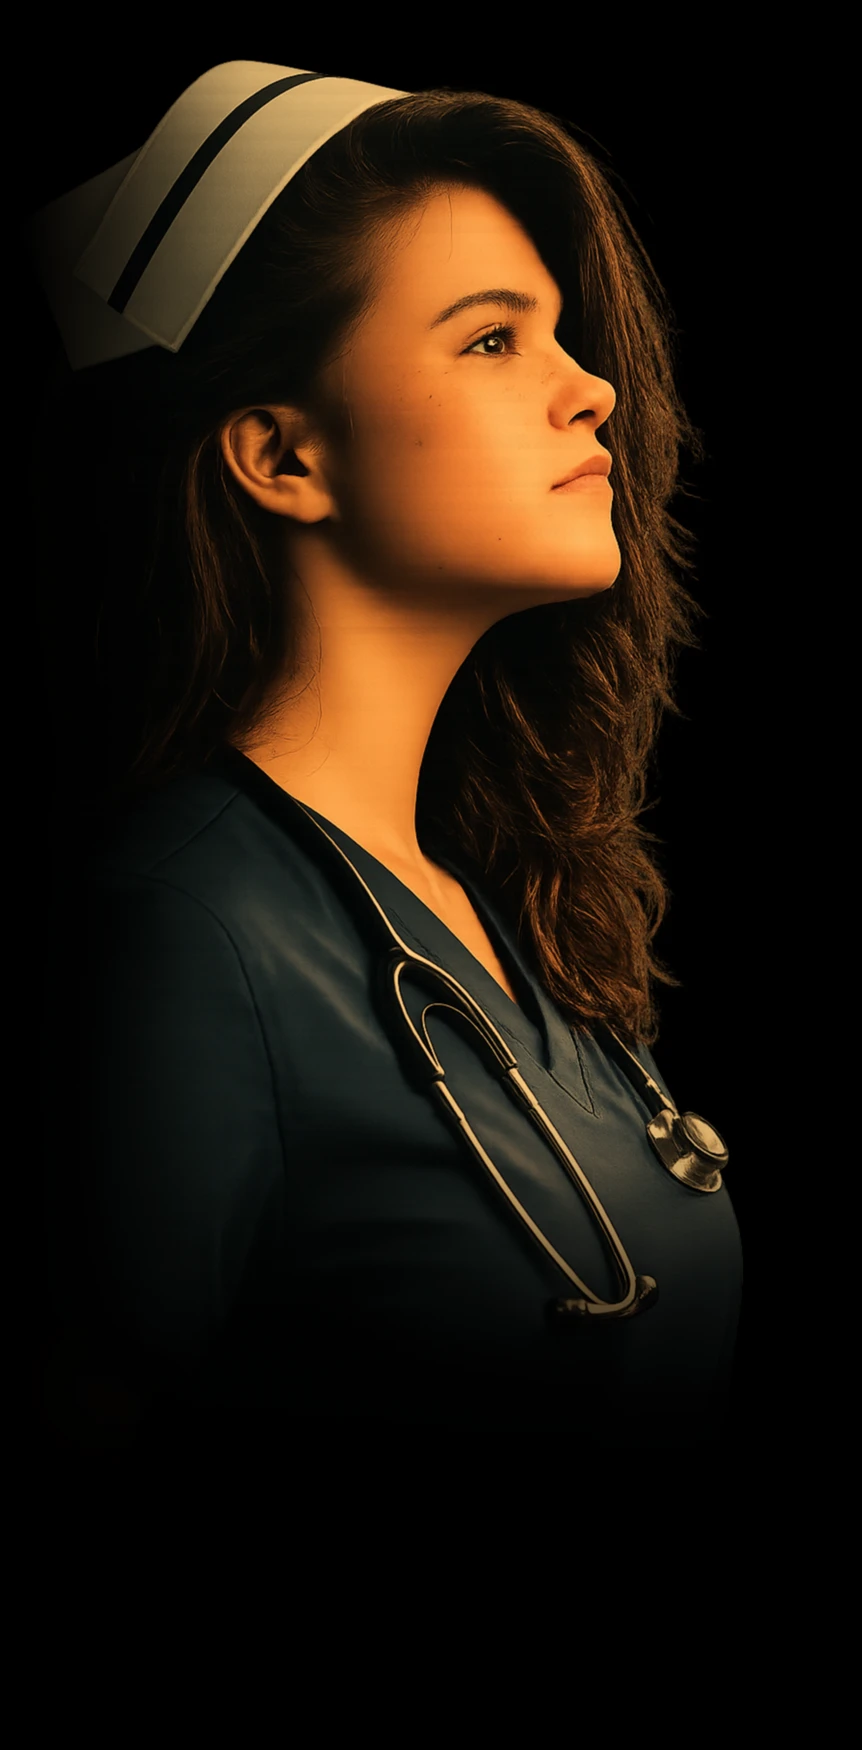
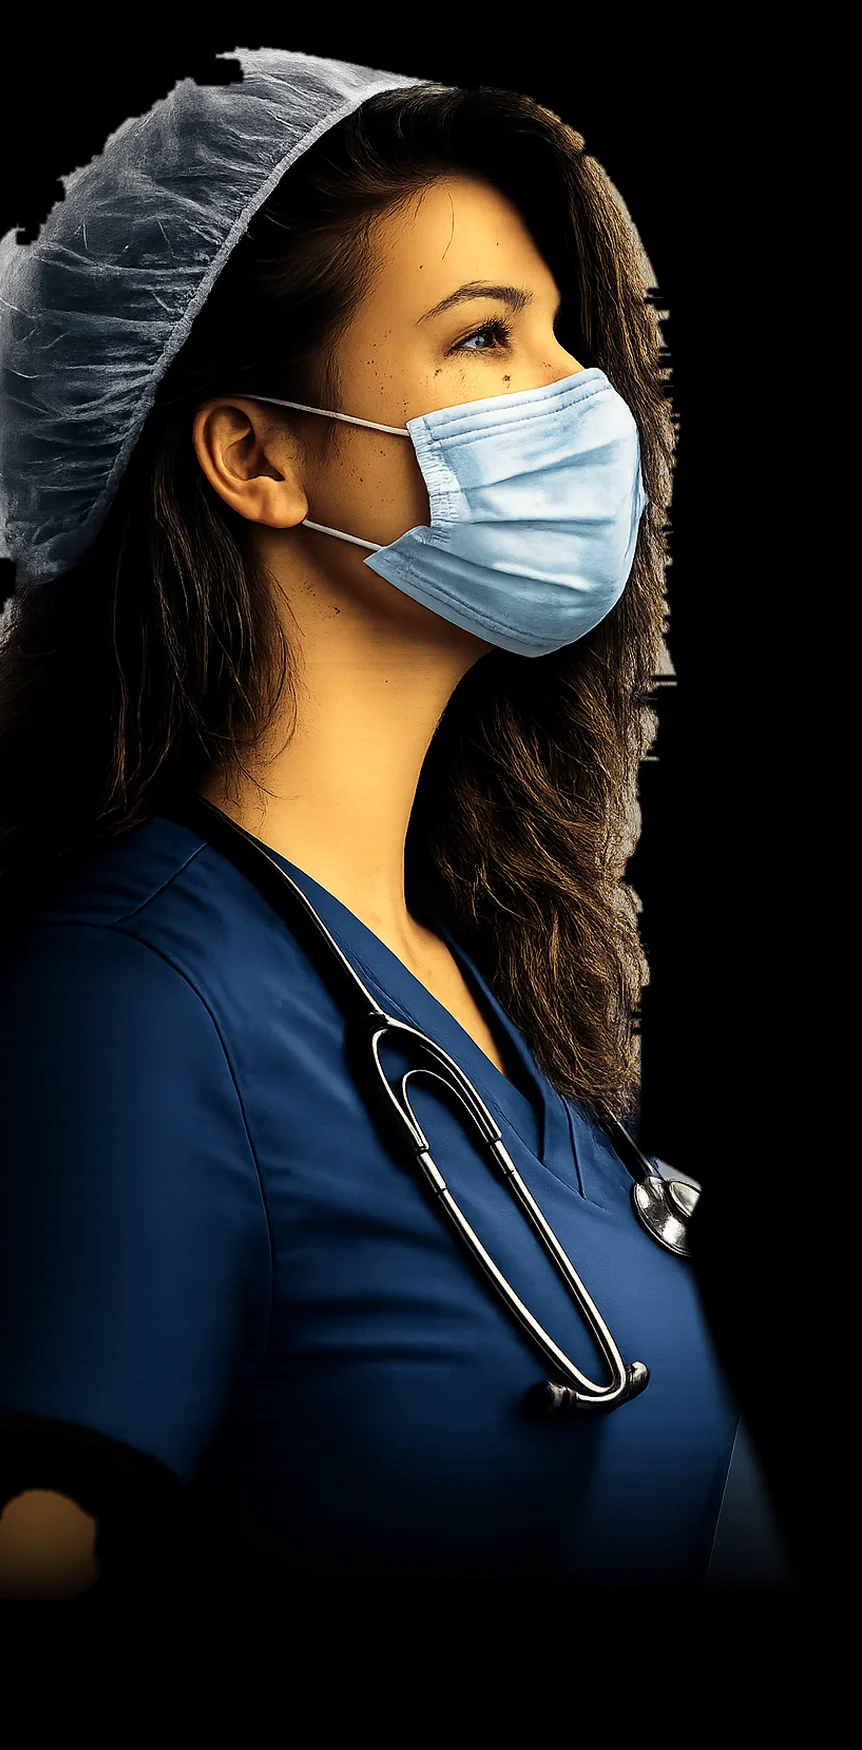
hero: a new nurse frame, cut inside its own fringe
Replaces the morph's second frame with the clinician the client supplied:
masked, capped, in scrubs, on a lit studio grey. The mask is what makes a
different person workable — with the nose and mouth covered there is much
less identity to cross-fade, and what carries the morph is the head angle,
the jaw and the eye.

The plate was the whole problem. The key light throws a rim onto the
backdrop that exists only next to her, 50 to 90 levels above what any
smooth model of the plate predicts, because a smooth model is fitted from
the corners. Three approaches died on it:

  - a degree-3 polynomial fit: reads the entire rim as subject
  - a diffusion inpaint of the plate: follows the clouds beautifully and
    still cannot invent a rim that is only ever underneath her
  - true coverage, a = (B - I)/(B - F_dark): a real estimate rather than a
    difference test, fixed the hair, could not fix a plate error

What shipped instead is to stop trying to recover the fringe and cut
inside it. The silhouette is reliable; only its last few pixels are not.
Feathering INWARD discards every partially covered pixel rather than
guessing at it, so the matte reaches zero while it is still over hair.
Under a screen blend that trade is not close: a halo has nowhere to hide,
and the frame this dissolves with loses its own hair to black anyway.

Three things it still needed. A scanline trim, walking in from the right
of each row while the pixels are plate-bright, since her side of that edge
[…]

diff --git a/docs/HACKATHON-H0-submission.md b/docs/HACKATHON-H0-submission.md
@@ -1,0 +1,92 @@
+# H0: Hack the Zero Stack — Solace submission package
+
+## ⏳ LIVE DRAFT STATUS (Devpost submission #1066936)
+Draft is created and these fields are FILLED in the form (do not reload the open tab or they may be lost before you save):
+- **Project name:** Solace — AI-native ED intake & triage
+- **Elevator pitch / Story / Built-with tags (18) / Demo URL / Video link:** ✅ done
+- **Track:** Monetizable B2B app ✅
+- **Published Vercel link:** https://solaceaidemo.vercel.app/showcase ✅
+- **Database:** Amazon DynamoDB ✅
+
+### ❗ Remaining — only YOU can do these (then Save & continue → Submit):
+1. **Submitter Type** — Individual or Team (Solace is a team project → likely "Team"; you'd be the Representative)
+2. **Country of Residence** — your country (personal; check excluded-countries list in rules)
+3. **App Status** — "New" if Solace was first built within May 27–Jun 29, 2026; else "Existing" + one line on what you updated
+4. **Vercel Team ID** — vercel.com → the team hosting the live site (inkspire) → Settings → General → "Team ID" (team_xxxx)
+5. **Architecture diagram** (file upload, required) — I can generate a PNG for you
+6. **AWS DB screenshot** (file upload, required) — screenshot your AWS Console → DynamoDB → Tables list showing the `solace-*` tables
+7. **Final Submit** — this is YOUR click (submitting = agreeing to the Official Rules as a binding contract)
+
+Deadline: **June 29, 2026, 5:00 pm PT.**
+
+---
+
+
+**Deadline:** June 29, 2026, 5:00 pm Pacific (≈1 day out). Submit a *draft* early, keep editing until the deadline.
+
+**Track:** **Track 2 — Monetizable B2B App** (healthcare is named explicitly in the track).
+You are also automatically eligible for the four Best-of prizes (Best Technical Implementation, Best Design, **Most Impactful**, Most Original) — Most Impactful is very winnable for an ED-triage product.
+
+**Database used:** **Amazon DynamoDB** (one of the three required AWS Databases). ✅
+**Frontend deployment:** **Vercel** (patient intake SPA + clinician terminal + marketing site). ✅
+
+---
+
+## Why this is a real fit (not a stretch)
+- Required stack = (Aurora **or** Aurora DSQL **or** DynamoDB) + (Vercel **or** v0). Solace = **DynamoDB + Vercel**. Met.
+- Rules updated 6/10 to be "more inclusive if you don't use the new integration" — you only need a **screenshot proving AWS DB usage**. So Vite+React on Vercel + DynamoDB via the FastAPI/Lambda backend qualifies.
+- Built within the submission window (May 27–June 29, 2026), so "New & Existing" is satisfied.
+
+**Honesty guardrail:** Do **not** claim you used v0 to scaffold it (you used Vite/React). Lead with the **DynamoDB data model** and the **Vercel-hosted frontends** — both true and both strong.
+
+---
+
+## The DynamoDB story (this is the linchpin — criterion #1)
+Solace runs entirely on a **multi-table DynamoDB design**, on-demand (PAY_PER_REQUEST), every table CMK-encrypted, TTL on transient tables. Real, deliberate modeling:
+
+| Domain | Tables |
+|---|---|
+| Patient + clinical | `solace-patients`, `solace-ehr-patients`, `solace-clinicians`, `solace-hospitals`, `solace-notes`, `solace-prescriptions`, `solace-appointments`, `solace-calls` |
+| Auth / sessions | `solace-magic-tokens`, `solace-intake-nonces` (TTL), `solace-blocklist` |
+| Integrity / safety | `solace-idempotency` (TTL — exactly-once writes), `solace-quotas`, `solace-audit-log` (6-yr retention), `SolaceRateLimit` |
+
+Talking points for the video/description:
+- **Why DynamoDB, not Aurora:** ED intake is spiky and bursty (waiting-room rushes). On-demand DynamoDB absorbs traffic spikes with single-digit-ms reads and zero capacity planning — the right call for unpredictable hospital load and for scaling to many hospitals.
+- **Deliberate keys/TTL:** idempotency + nonce tables use TTL for self-expiring exactly-once semantics; audit log is append-only for HIPAA.
+- **Single-digit-ms** lookups power the live clinician queue refresh and EHR auto-match before the patient is roomed.
+
+---
+
+## Per-criterion framing (equally weighted)
+1. **Technical Implementation** — DynamoDB multi-table model + TTL/idempotency, 4-model ML triage ensemble (LightGBM+XGBoost+CatBoost+MLP) with SHAP + conformal prediction, Bedrock/Transcribe/Polly, CloudFront+WAF, all under the AWS BAA. Frontends on Vercel.
+2. **Design** — Polished patient intake (multilingual voice, no app/login) + clinician terminal; cohesive front-to-back full-stack feel.
+3. **Impact & Real-world Applicability** — Cuts ED front-end dead time, fixes under-triage for limited-English patients, real HIPAA-grade architecture. Shippable to hospitals today.
+4. **Originality** — Explainable AI triage (provisional ESI + SHAP) with multilingual voice intake and a phone voice agent — a genuinely novel combination.
+
+---
+
+## Required submission artifacts — checklist
+- [x] **Text description** (below)
+- [x] **Database used:** DynamoDB
+- [x] **Demo video (<3 min, YouTube):** https://www.youtube.com/watch?v=vFjxtGklkCo — *confirm it's <3:00 and shows the working app + names DynamoDB; if it doesn't mention the DB, add one sentence of narration or a caption.*
+- [x] **Published Vercel project link:** https://mysolaceclinic.com (marketing) and the product app https://solaceaidemo.vercel.app/showcase
+- [ ] **Vercel Team ID** — get from Vercel dashboard → team → Settings → "Team ID" (project lives under the `inkspire-custom-arts-projects` team)
+- [ ] **Architecture diagram** — use the ASCII one in `README.md`; turn it into an image (the README diagram already shows Patient→Vercel SPA→CloudFront/WAF→API GW→Lambda→DynamoDB/S3/Bedrock). Need a PNG.
+- [ ] **Screenshot proving AWS DB usage** — AWS console screenshot of the DynamoDB **Tables** list showing the `solace-*` tables. (Strongest possible proof.)
+
+---
+
+## Ready-to-paste TEXT DESCRIPTION
+
+**Solace — AI-native patient intake & clinical triage for emergency departments**
+*Track: Monetizable B2B App · Database: Amazon DynamoDB · Frontend: Vercel*
+
+Emergency departments lose time on the front end of every encounter: registration pulls nurses off clinical work, language barriers cause under-triage for non-English speakers, and clinicians flip through paper forms before seeing a patient. Solace removes that dead time.
+
+A patient scans a QR code in the waiting room, speaks their symptoms in any of 20+ languages (no app, no account), and optionally photographs an injury or insurance card. Within seconds they hear a calm, spoken explanation of their triage level and what to expect. On the other side of the department, the clinician already has an AI pre-brief — provisional ESI level, SHAP attribution, EHR auto-match, and a scribe draft — before the patient is roomed.
+
+**Why DynamoDB.** ED traffic is bursty and unpredictable. Solace runs on a multi-table Amazon DynamoDB design (on-demand capacity, CMK-encrypted, TTL on transient tables) — `solace-patients`, `solace-ehr-patients`, `solace-clinicians`, `solace-hospitals`, `solace-appointments`, `solace-notes`, `solace-prescriptions`, plus TTL-backed `solace-idempotency` and `solace-intake-nonces` for exactly-once writes and self-expiring sessions, and an append-only `solace-audit-log` for HIPAA. Single-digit-millisecond reads power the live clinician queue and EHR match with zero capacity planning — the right database for spiky waiting-room load and for scaling across many hospitals.
+
+**Stack.** Frontends (patient intake SPA + clinician terminal) deploy on Vercel. Backend is FastAPI on AWS Lambda behind API Gateway + CloudFront/WAF. AI runs through AWS Bedrock (Claude), Transcribe, and Polly — all under the AWS Business Associate Agreement. A 4-model stacked ML ensemble (LightGBM + XGBoost + CatBoost + MLP) refines ESI from bedside vitals with SHAP explanations and conformal prediction intervals.
+
+Solace is HIPAA-grade and shippable to hospitals today.

diff --git a/landing/public/assets/hero/CREDITS.md b/landing/public/assets/hero/CREDITS.md
@@ -65,7 +65,71 @@ is the obvious next candidate.
   replaced by the CSS gradient field.
 
 
-## The scroll morph — added 2026-07-27
+## The scroll morph — replaced 2026-07-28
+
+**nurse.webp / nurse@2x.webp** — a masked clinician in scrubs and a surgical
+cap, supplied by the client (1024x1536 PNG, opaque, shot on a lit studio grey).
+It replaces an earlier frame that was the same face as the hero subject. This
+one is a different person, which the mask makes workable: with the nose and
+mouth covered there is far less identity to cross-fade, and what carries the
+morph is the head angle, the jaw line and the eye — all of which register.
+
+Built by `scratchpad/nurse2/`, and the interesting part is the three attempts
+that did not work, because each failed for a reason worth keeping.
+
+1. **Cut against a fitted plate — failed.** A degree-3 polynomial through the
+   corners is 50 to 90 levels too dark down her right side, because the key
+   light throws a rim onto the backdrop that only exists next to her. Every
+   pixel of that rim then reads as subject.
+2. **Cut against a diffusion-inpainted plate — failed the same way.** Rebuilding
+   the backdrop by diffusing known pixels into the subject's hole follows the
+   clouds beautifully and still cannot invent a rim that is only ever underneath
+   her.
+3. **Recover true coverage rather than difference — closer, still wrong.** For a
+   dark subject on a light plate, `a = (B - I) / (B - F_dark)` is a real estimate
+   of coverage, and it fixed the hair. It could not fix the rim, because the rim
+   is a plate error, not a matte error.
+
+What shipped: **cut inside the fringe.** The silhouette is reliable; only its
+last few pixels are not. Feathering INWARD discards every partially covered
+pixel instead of guessing at it, so the matte reaches zero while it is still
+over hair. Under `mix-blend-mode: screen` that matters more than the strands do
+— a halo is the one artefact with nowhere to hide, and the frame this dissolves
+with loses its own hair to black in exactly the same way.
+
+Three further things the pipeline needed:
+
+- **A scanline trim.** Walking in from the right of each row and dropping pixels
+  while they are still plate-bright removes the rim; the first dark pixel is the
+  real hair edge. Skipped above y=150, where the silhouette IS the bright cap.
+- **A read shoulder line.** Below the hair the plate has fallen into its own
+  vignette and the scrubs are navy, so the two meet in the same range and no
+  threshold separates them. Twelve points read off a gridded crop, interpolated,
+  pulled in 8px. The only hand-placed numbers here, and they are here because
+  measurement beat inference.
+- **A feather that varies with what it cuts.** 4px over the bright edges — jaw,
+  cap, mask — and nearly 40 over the dark ones. A single narrow feather gave the
+  hair a ruled edge, and smoothing that edge only made the slice look
+  deliberate. Hair has to dissolve, not end.
+
+**Registration** is two landmarks, not correlation: the pupil at (665,335) and
+the ear canal at (445,445), against (485,340) and (255,460) in the frame it
+dissolves with. Scale 1.0546, offset (-216,-13), ear landing within 4px. No
+correlation would have found this — the new face is behind a mask and has
+almost nothing to correlate against.
+
+**The grade is selective.** Skin is warmed toward the subject it dissolves with
+and nothing else is touched, weighted by how far red already leads blue. A flat
+per-channel gain lands identically on the mask and the scrubs and turns both a
+yellow-grey.
+
+**Consent, unchanged and still unresolved.** This frame depicts an identifiable
+person presented as a healthcare professional, and no model release accompanies
+it. Flagged, not cleared.
+
+---
+
+## The previous morph frame — added 2026-07-27, replaced 2026-07-28
 
 **nurse.webp / nurse@2x.webp** — the same subject in scrubs, supplied by the
 client as a generated frame (1024x1536, with a usable alpha channel already in
